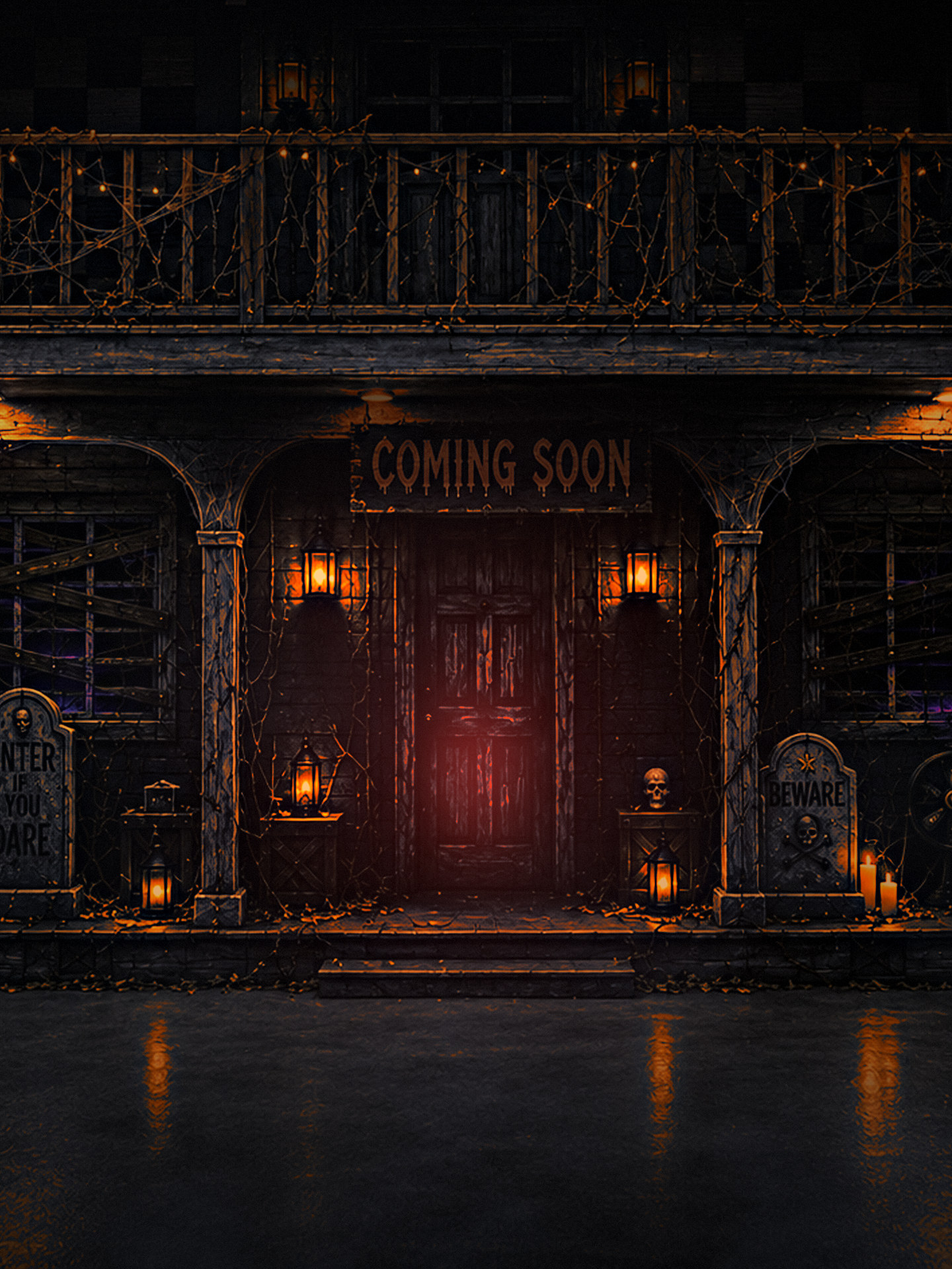
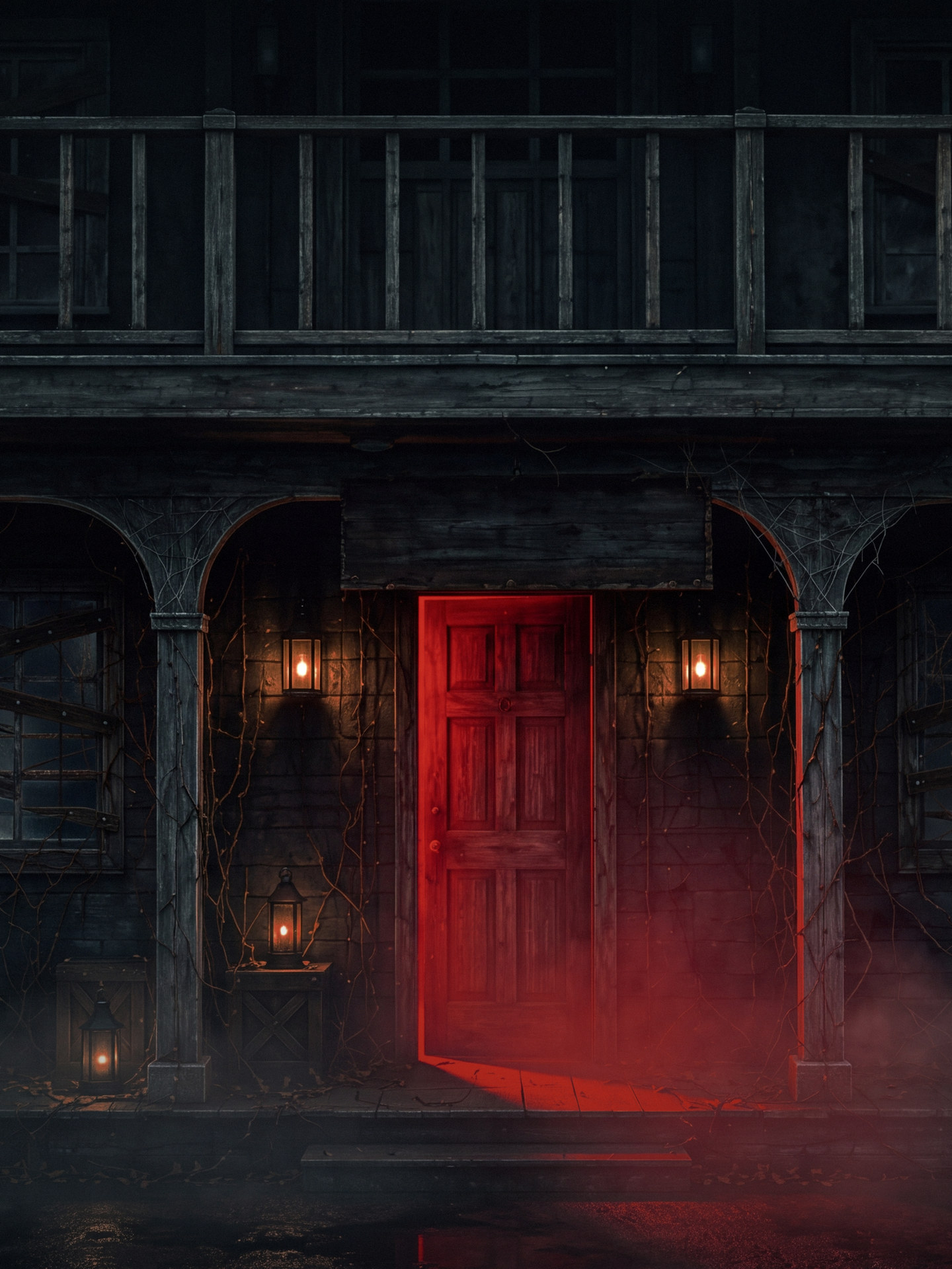
New house render, and the Instagram handle
The old hero was a 1448px set photo, which is smaller than the viewport it was
being asked to fill - no amount of grading fixes that, so the house is
re-rendered at 5504x3072. Real wood grain, real glass, real dead vine, and the
red now comes from an open door rather than from a gradient painted over a
closed one.

The grade shrinks to match. It no longer voids a studio ceiling or paints light
in; it talks the doorway red down from a pure primary (which reads as a
nightclub sign) to the page's blood, closes the frame, blooms the lanterns and
adds grain. Everything else the render already did.

Phone crop now centres on the door band rather than the whole red mask: light
pooling on the floor spreads sideways and was dragging the centre a tenth of a
frame off, which put the door under the left edge of the headline.

Instagram is @hauntedmansionbk.

Claude-Session: https://claude.ai/code/session_01ByPgt9rQvzWTEajtcNvSYQ

diff --git a/index.html b/index.html
@@ -313,7 +313,7 @@ button[disabled]{opacity:.45;cursor:wait}
 
   <section class="close">
     <p class="rise">Don&rsquo;t come alone.</p>
-    <a class="rise" href="https://instagram.com/hauntedmansion.bk" rel="noopener">@hauntedmansion.bk</a>
+    <a class="rise" href="https://instagram.com/hauntedmansionbk" rel="noopener">@hauntedmansionbk</a>
   </section>
 </main>
 

diff --git a/tools/hero.py b/tools/hero.py
@@ -1,25 +1,21 @@
 """Build the page hero from the raw render.
 
-The poster is the poster - it carries Cali's type and cannot be cropped without
-fighting it. The page needs the house alone, full bleed, in two aspect ratios,
-with the studio gone and the set no longer reading as a party:
-  ceiling + flanking foam to void, string lights killed, porch bays voided,
-  one cold source upper-left, fog with structure, rotted texture.
+v2. The first pass was rescuing a 1448px set photo: it had to void the studio
+ceiling, kill string lights, and paint a red doorway in by hand, all at 2x
+because the source was smaller than the screen. The v2 render is 5504x3072 and
+already photographic, already lit, already fogged - so this pass does almost
+nothing. It talks the red down from a primary to blood, closes the frame, adds
+grain, and cuts the two aspect ratios. Anything more would be undoing work the
+render already did.
 """
 import os
 import numpy as np
 from PIL import Image, ImageFilter
 
-SRC = os.path.join("img", "facade-raw.png")
+SRC = os.path.join("img", "facade-raw-v2.png")
 OUT = "img"
 
-# The source render is only 1448px wide. Grading at 1x and letting the browser
-# upscale to a retina viewport is what made the house look soft, so the whole
-# pass runs at 2x: the fog, halation and grain are then real pixels at the size
-# the page actually displays, instead of a stretched 1x plate.
-SUPER = 2
 im = Image.open(SRC).convert("RGB")
-im = im.resize((im.width * SUPER, im.height * SUPER), Image.LANCZOS)
 W, H = im.size
 x = np.asarray(im).astype(np.float32) / 255.0
 
@@ -29,111 +25,59 @@ ny, nx = yy / H, xx / W
 
 def blur(arr, r):
     a8 = (np.clip(arr, 0, 1) * 255).astype(np.uint8)
-    return np.asarray(Image.fromarray(a8).filter(ImageFilter.GaussianBlur(r))).astype(np.float32) / 255.0
+    return np.asarray(Image.fromarray(a8).filter(ImageFilter.GaussianBlur(r))
+                      ).astype(np.float32) / 255.0
 
 
-def value_noise(h, w, octaves, seed):
-    rng = np.random.default_rng(seed)
-    out = np.zeros((h, w), np.float32)
-    amp, tot = 1.0, 0.0
-    for o in range(octaves):
-        s = max(2, int(2 ** (o + 2)))
-        base = rng.random((s, s)).astype(np.float32)
-        out += np.asarray(Image.fromarray((base * 255).astype(np.uint8))
-                          .resize((w, h), Image.BICUBIC), np.float32) / 255.0 * amp
-        tot += amp
-        amp *= 0.55
-    return out / tot
+# 1. the red is the whole point, but the render delivered it as a pure primary,
+#    which reads as a nightclub sign rather than something burning behind a door.
+#    Only 0.08% of the red channel is actually clipped, so the grain is still in
+#    there - it is buried under saturation. Retint the hot red to the page's own
+#    blood and pull the intensity down until the door's wood grain comes back.
+BLOOD = np.array([0.86, 0.19, 0.14], np.float32)
+R, G, B = x[..., 0], x[..., 1], x[..., 2]
+redness = np.clip((R - np.maximum(G, B)) * 2.4, 0, 1)
+hot = (redness * np.clip((R - 0.30) / 0.70, 0, 1))[..., None]
+x = x * (1 - hot) + hot * (R[..., None] * 0.88) * BLOOD
 
+# 2. close the frame. The corners of an establishing shot are information the
+#    page does not need; the eye should arrive at the doorway and stay there.
+r = np.sqrt(((nx - 0.5) * 1.16) ** 2 + ((ny - 0.56) * 1.00) ** 2)
+x *= np.clip(1.12 - r * 0.98, 0.04, 1.0)[..., None]
 
+# 3. halation. Real glass and real air bloom; a render's lights stop at their
+#    own edge. Warm off the lanterns, red off the doorway, both weak.
 lum = x @ np.array([0.2126, 0.7152, 0.0722], np.float32)
-spot = np.clip((lum - blur(lum, W * 0.02)) * 4.0, 0, 1)
-practical = np.clip(spot * 2.2 + (lum - 0.55) * 2.0, 0, 1)[..., None]
+warm = np.clip(x[..., 0] - x[..., 2] - 0.06, 0, 1) * np.clip((lum - 0.30) / 0.70, 0, 1)
+x = x + blur(warm, W * 0.008)[..., None] * 0.30 * np.array([1.00, 0.62, 0.26], np.float32)
+x = x + blur(redness * np.clip((R - 0.35) / 0.65, 0, 1), W * 0.030)[..., None] * 0.20 * BLOOD
 
-# 1. the room disappears
-ceiling = np.clip((0.265 - ny) / 0.265, 0, 1) ** 0.6   # includes the ceiling fan
-sides = np.clip(np.clip((0.135 - nx) / 0.135, 0, 1) ** 0.6 +
-                np.clip((nx - 0.870) / 0.130, 0, 1) ** 0.6, 0, 1)
-corners = np.clip((0.42 - ny) / 0.42, 0, 1) * np.clip((np.abs(nx - 0.5) - 0.20) / 0.18, 0, 1)
-floor = np.clip((ny - 0.78) / 0.22, 0, 1) ** 0.9
-x *= (1 - 0.96 * ceiling)[..., None]
-x *= (1 - 0.96 * sides)[..., None]
-x *= (1 - 0.92 * corners)[..., None]
-x *= (1 - 0.60 * floor)[..., None]
+# 4. grain, weighted into the shadows where film actually shows it. Finer than
+#    v2's predecessor because this plate is downscaled 2x on the way out, and
+#    grain that survives a 2x downscale was too coarse to begin with.
+gr = np.random.default_rng(5).normal(0, 0.016, (H, W)).astype(np.float32)
+x = np.clip(x + gr[..., None] * (1 - np.clip(x, 0, 1)) ** 1.4, 0, 1)
 
-# 2. string lights along the balcony rail read festive - kill them
-rail = ((ny > 0.10) & (ny < 0.36)).astype(np.float32)
-warm = ((x[..., 0] > x[..., 2] + 0.04) & (lum > 0.16)).astype(np.float32)
-strings = blur(np.clip(spot * rail * warm * 3.0, 0, 1), W * 0.004)
-x *= (1 - 0.92 * strings)[..., None]
+full = Image.fromarray((x * 255).astype(np.uint8))
 
-# 3. porch bays and doorway go void, so the dark is the only thing to look at
-keep = np.clip(spot * 2.5, 0, 1)
-bay = (np.clip((ny - 0.50) / 0.06, 0, 1) * np.clip((0.80 - ny) / 0.06, 0, 1)
-       * np.clip((nx - 0.09) / 0.05, 0, 1) * np.clip((0.91 - nx) / 0.05, 0, 1))
-x *= (1 - 0.45 * bay * (1 - keep))[..., None]
-sign = (np.clip((nx - 0.34) / 0.03, 0, 1) * np.clip((0.66 - nx) / 0.03, 0, 1)
-        * np.clip((ny - 0.38) / 0.02, 0, 1) * np.clip((0.48 - ny) / 0.02, 0, 1))
-# The COMING SOON banner is the one prop that reads as a prop. Push it back
-# until it looks like something that has been hanging there a long time.
-x *= (1 - 0.74 * sign)[..., None]
+# 16:9 for desktop, 3:4 for phones. The phone crop centres on the doorway rather
+# than on the frame, because the frame's centre and the subject's are not the
+# same place. Each ships 1x and 2x so the page hands the right plate to each
+# screen instead of making one file cover both badly.
+# Measured on the door band only (y 0.38-0.62). The whole-frame red centroid
+# reads 0.530 because the light pooling on the floor spreads sideways, and
+# centring the phone crop on the spill leaves the door a tenth of a frame off.
+DOOR_X = 0.491
+wh = int(H * 16 / 9)
+if wh <= W:
+    wide = full.crop(((W - wh) // 2, 0, (W - wh) // 2 + wh, H))
+else:
+    hh = int(W * 9 / 16)
+    wide = full.crop((0, (H - hh) // 2, W, (H - hh) // 2 + hh))
 
-door = np.exp(-(((nx - 0.5) / 0.055) ** 2 + ((ny - 0.63) / 0.09) ** 2))
-x *= (1 - 0.70 * door * (1 - keep))[..., None]
-
-# The one red in the frame, and it comes from inside the house. Amber light on
-# a porch is hospitality; red light behind a door is not. A tight core in the
-# doorway gap, a wider bleed that catches the columns and the fog above it.
-core = np.exp(-(((nx - 0.5) / 0.030) ** 2 + ((ny - 0.655) / 0.055) ** 2))
-bleed = np.exp(-(((nx - 0.5) / 0.115) ** 2 + ((ny - 0.640) / 0.155) ** 2))
-blood = np.array([1.00, 0.11, 0.07], np.float32)
-x = x + (core * 0.58 + bleed * 0.19)[..., None] * blood * (1 - x)
-
-# 4. exposure back up, one cold source upper-left, flames stay amber
-x = np.clip(x * 1.18, 0, 1)
-cold = np.array([0.70, 0.84, 1.16], np.float32); cold /= cold.mean()
-x = x * (cold * (1 - practical) + practical * np.array([1.14, 0.90, 0.64], np.float32))
-moon = np.exp(-(((nx - 0.16) / 0.62) ** 2 + ((ny - 0.06) / 0.62) ** 2))
-x = x * (0.52 + 0.48 * moon)[..., None]
-x = x + moon[..., None] * 0.05 * np.array([0.42, 0.54, 0.80], np.float32) * (1 - x)
-
-# 5. desaturate the field, keep the fire hot
-g = (x @ np.array([0.2126, 0.7152, 0.0722], np.float32))[..., None]
-x = g + (x - g) * (0.58 * (1 - practical) + 1.45 * practical)
-
-# 6. fog with structure, rising and pooling at the door
-n = value_noise(H, W, 5, 11)
-rise = np.clip((ny - 0.46) / 0.54, 0, 1) ** 1.5
-pool = np.exp(-(((nx - 0.5) / 0.30) ** 2 + ((ny - 0.78) / 0.26) ** 2))
-fog = np.clip(n * 1.3 - 0.36, 0, 1) * (rise * 0.85 + pool * 0.55)
-x = x + fog[..., None] * 0.30 * np.array([0.50, 0.58, 0.72], np.float32) * (1 - x)
-
-# 7. halation, rotted local contrast, closing frame, grain
-e = blur(np.clip(x - 0.42, 0, 1) * practical, W * 0.015)
-x = x + e * 0.32 * np.array([1.00, 0.56, 0.20], np.float32)
-# red spills further than the lanterns do - a wide, weak glow off the doorway
-x = x + blur(core + bleed * 0.5, W * 0.035)[..., None] * 0.15 * blood
-# 0.75 was carving halos around every board. Enough to read as texture, no more.
-x = np.clip(x + (x - blur(x, W * 0.006)) * 0.42, 0, 1)
-r = np.sqrt(((nx - 0.5) * 1.20) ** 2 + ((ny - 0.58) * 1.02) ** 2)
-x *= np.clip(1.14 - r * 1.02, 0.03, 1.0)[..., None]
-gr = np.random.default_rng(5).normal(0, 0.013, (H, W)).astype(np.float32)
-x = x + gr[..., None] * (1 - np.clip(x, 0, 1)) ** 1.4
-
-full = Image.fromarray((np.clip(x, 0, 1) * 255).astype(np.uint8))
-
-# 16:9 for desktop, 3:4 for phones - the phone crop keeps the doorway centred.
-# Each ships at 1x and 2x so the page can hand the right plate to each screen
-# instead of making one file cover both badly.
-w, h = full.size
-top = int(h * 0.10)
-wide = full.crop((0, top, w, min(h, top + int(w * 9 / 16))))
-# start the phone crop below the ceiling line so the fan and the room above it
-# never make it into the plate, whatever object-fit does with it later
-ttop = int(h * 0.13)
-th = h - ttop
-cw = int(th * 3 / 4)
-tall = full.crop(((w - cw) // 2, ttop, (w - cw) // 2 + cw, h))
+cw = int(H * 3 / 4)
+left = min(max(int(DOOR_X * W) - cw // 2, 0), W - cw)
+tall = full.crop((left, 0, left + cw, H))
 
 for name, src, size2x in (("hero-wide", wide, (2560, 1440)),
                           ("hero-tall", tall, (1440, 1920))):

diff --git a/README.md b/README.md
@@ -26,3 +26,22 @@ stays hidden below `COUNTER_MIN` signups: the number shown is always the real on
 
 - Remove the `robots: noindex` line in `index.html`
 - Point `og:image` back at the production domain
+
+## The hero image
+
+`tools/hero.py` builds all four hero plates from `img/facade-raw-v2.png`, a
+5504×3072 render that is kept out of the repo (see `.gitignore`) along with the
+rest of the art. The first version of the page graded a 1448px set photo, which
+is why the house looked soft: the browser was stretching a 1x plate across a
+retina viewport. v2 starts above the display size, so the grade only has to
+talk the doorway red down from a primary to blood, close the frame, and add
+grain.
+
+Re-cut the plates with:
+
+    python tools/hero.py
+
+It writes `hero-wide.jpg` / `hero-wide@2x.jpg` (16:9, desktop) and
+`hero-tall.jpg` / `hero-tall@2x.jpg` (3:4, phones). The phone crop centres on
+the doorway rather than the frame — `DOOR_X` in the script is measured from the
+red mask, and needs remeasuring if the render is ever replaced.
